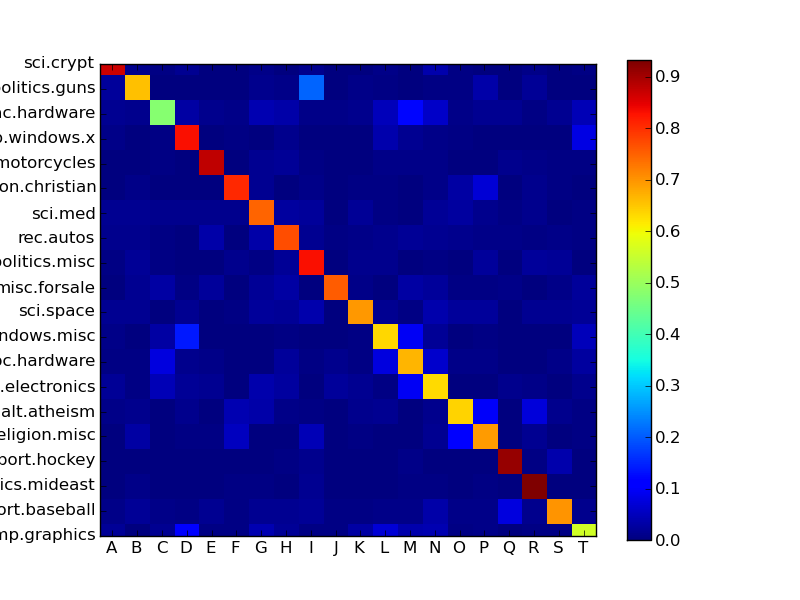
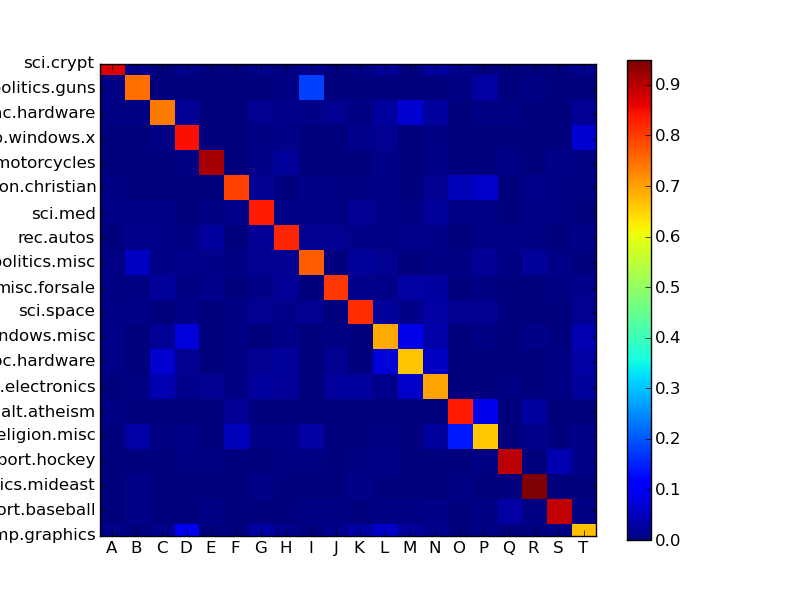
failed experiment on using namespace feature for multi class classification

diff --git a/20news_to_vw.group_namespace.test.py b/20news_to_vw.group_namespace.test.py
@@ -10,10 +10,13 @@ input_dir = sys.argv[1]
 sent_tokenizer = PunktSentenceTokenizer()
 token_tokenizer = WordPunctTokenizer()
 
-group_seq = Sequence(1)
+# first collect list of all groups
+groups = []
 for group in os.listdir(input_dir):
-    group_id = group_seq.id_for(group)
-    sys.stderr.write("%s\t%s\n" % (group, group_id))
+    groups.append(group)
+
+# then reiterate and fetch all files
+for group in groups:
     for article_path in os.listdir("%s/%s" % (input_dir, group)):
         # stitch article into a single string
         article = ""
@@ -29,11 +32,13 @@ for group in os.listdir(input_dir):
             tokens = map(lambda t: t.lower().replace(":","").replace("|",""), tokens)  # : and | reserved for vw format
             tokens = filter(lambda t: len(t) > 3, tokens)
             all_tokens.update(tokens)
-        # write them out
-        sys.stdout.write("%s 1 '%s_%s |" % (group_id, group, article_path))  # group weight=1 label
+        # collect up example... everything but group namespace feature
+        example = "1 1 '%s_%s |tokens" % (group, article_path)  # 1 weight=1 label
         for token in all_tokens:
-            sys.stdout.write(" %s" % token)
-        sys.stdout.write("\n")
+            example += " %s:0.5" % token
+        # followed by single group feature (with weighting = magic 10, therefore quadratic features have weight 5)
+        for group_class in groups:
+            print "%s |group %s:10" % (example, group_class)
 
 
 

diff --git a/20news_to_vw.group_namespace.py b/20news_to_vw.group_namespace.py
@@ -29,10 +29,12 @@ for group in os.listdir(input_dir):
             tokens = map(lambda t: t.lower().replace(":","").replace("|",""), tokens)  # : and | reserved for vw format
             tokens = filter(lambda t: len(t) > 3, tokens)
             all_tokens.update(tokens)
-        # write them out
-        sys.stdout.write("%s 1 '%s_%s |" % (group_id, group, article_path))  # group weight=1 label
+        # write out token features ; weight of 0.5
+        sys.stdout.write("1 1 '%s_%s |tokens" % (group, article_path))  # 1 weight=1 label
         for token in all_tokens:
-            sys.stdout.write(" %s" % token)
+            sys.stdout.write(" %s:0.5" % token)
+        # followed by single group feature (with weighting = magic 10, therefore quadratic features have weight 5)
+        sys.stdout.write(" |group %s:10" % group)
         sys.stdout.write("\n")
 
 

diff --git a/README.md b/README.md
@@ -9,14 +9,17 @@ using the 20 newsgroup data...
 
 ## one against all
 
+it turns out vowpal does multi class prediction. it has a common of different options, let's start with the vanilla one-against-all
+
     # convert to vowpal format
     # dead simple binary features
     ./20news_to_vw.oaa.py 20news-bydate-train >train.oaa 2>group_id.train.tsv &
     ./20news_to_vw.oaa.py 20news-bydate-test  >test.oaa  2>/dev/null &  # labels assigned are irrelevant for test set
     wait
 
-    # train model
-    shuf train.oaa | vw -f model --oaa 20
+    # train model; use LBFGS 
+    rm .cache
+    shuf train.oaa | vw -f model --bfgs -c --passes 10 --l1 0.01 --oaa 20 --quiet
 
     # test
     shuf test.oaa > foo; mv foo test.oaa
@@ -25,5 +28,22 @@ using the 20 newsgroup data...
     # draw confusion matrix (though matplotlib blows, i'm going back to ggplot...)
     ./generate_confusion_matrix.py predictions group_id.train.tsv confusion_matrix.png
 
-will this we get 5420 / 7532 correct ~= 70% which is pretty lame but with just binary features is fine
+with this we get 6013 / 7532 correct ~= 80% which is pretty lame but with just binary unweighted features this is good enough to start..
+
+how do things look if we do represent the multi class as namespaced feature?
+
+    ./20news_to_vw.group_namespace.py 20news-bydate-train >train.group_namespace 2>group_id.train.tsv &
+    ./20news_to_vw.group_namespace.test.py 20news-bydate-test >test.group_namespace &
+    wait
+
+    rm .cache
+    shuf train.group_namespace | vw -f model -q tg --bfgs -c --passes 10 --l1 0.01 --quiet
+    cat test.group_namespace | vw -t -i model -q tq --quiet -p predictions
+
+
+
+
+
+
+
 
